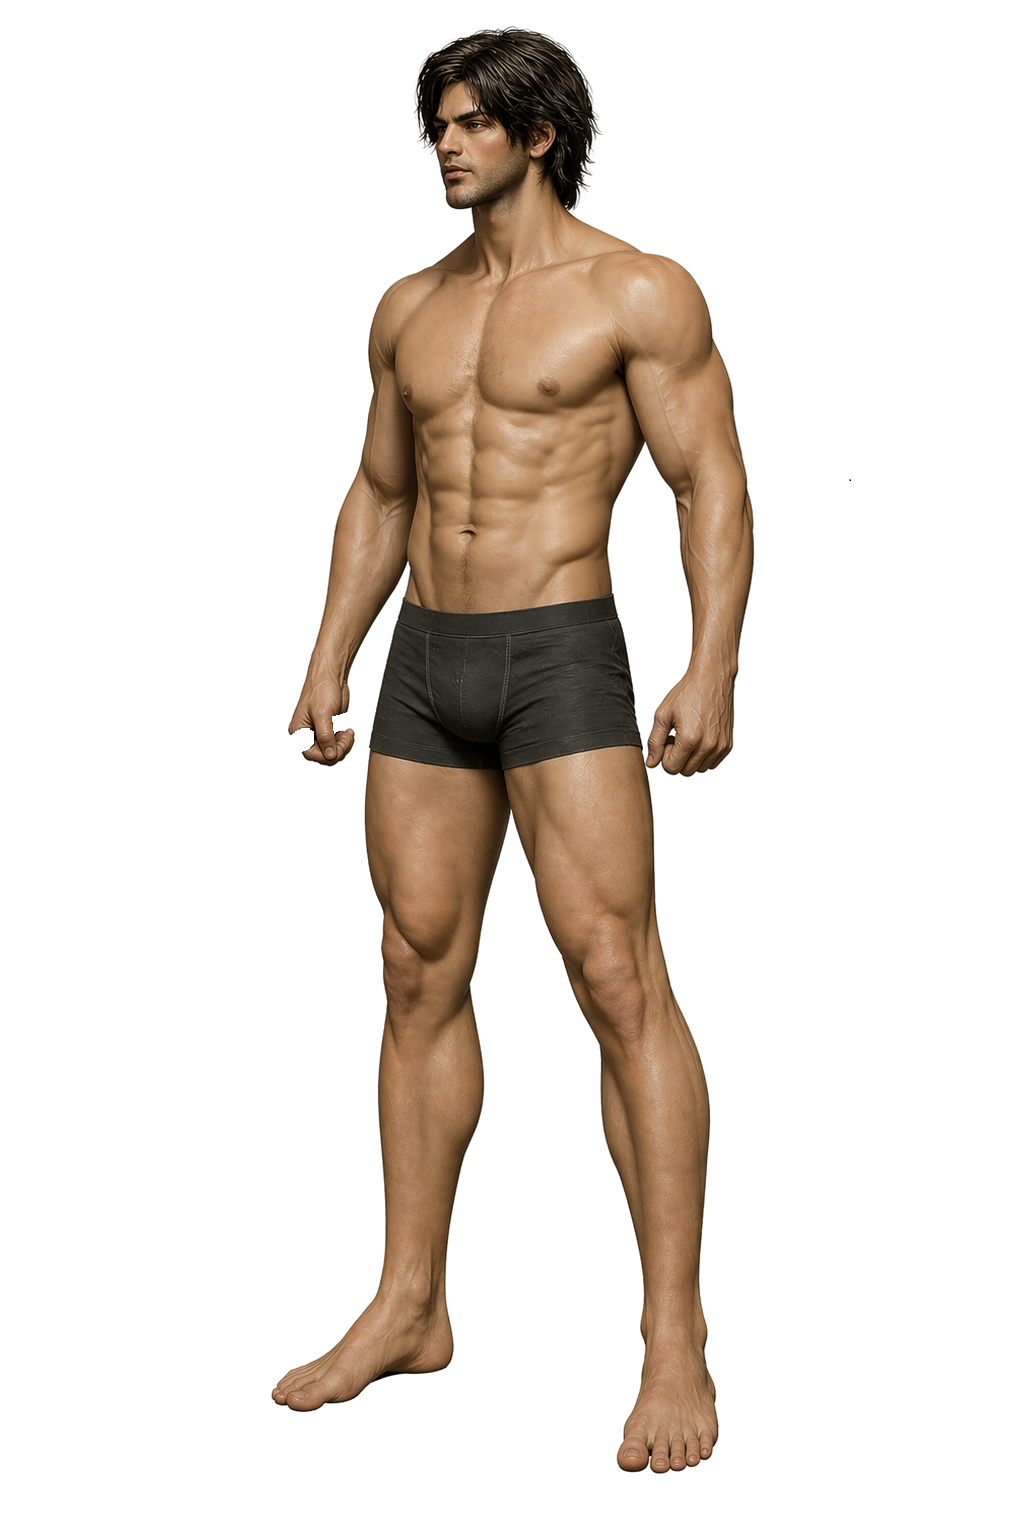
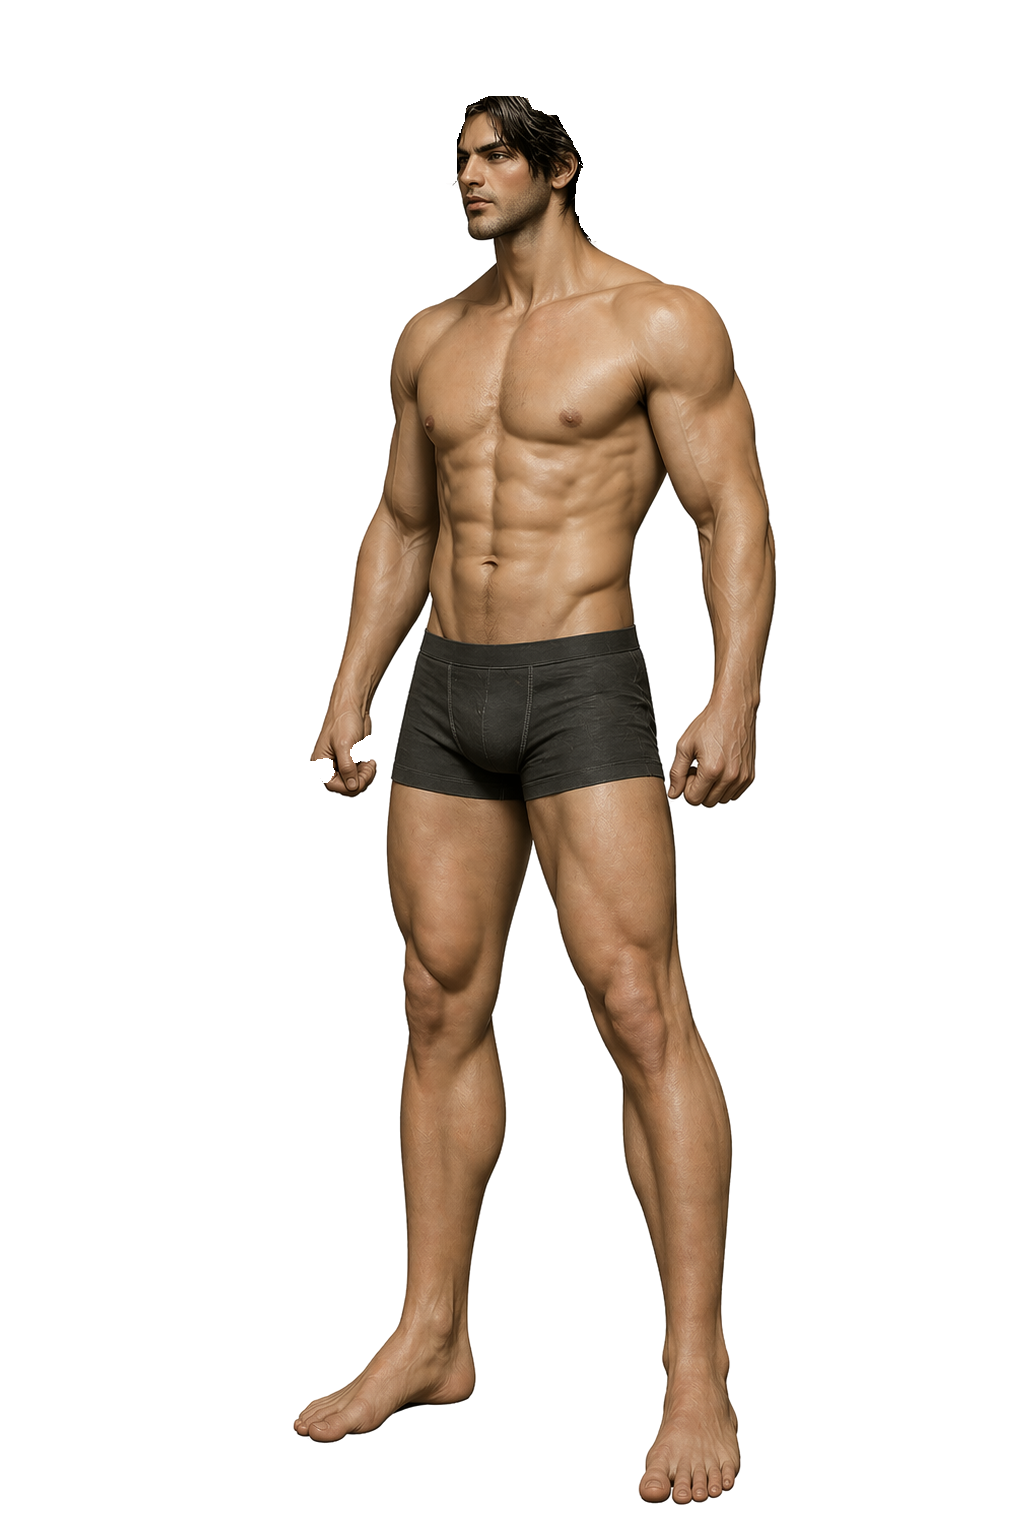
Fixed armor positions.

Changed region(s): [[0.25, 0.0, 0.7812, 1.0]]

diff --git a/game.js b/game.js
@@ -316,10 +316,10 @@ function syncPlayerClassSkillList(p) {
 
 function getDefaultPortraitBaseLayout() {
   return {
-    offsetXPct: 1.15667,
-    offsetYPct: -1.73501,
+    offsetXPct: -2.3133535258263334,
+    offsetYPct: -4.048706185434167,
     rotDeg: 0,
-    scalePct: 130
+    scalePct: 118
   };
 }
 
@@ -792,10 +792,15 @@ function getEquipmentOverlayImage(itemName) {
 }
 
 const NO_WEAPON_OVERLAY_PATH = "Assets/Equips/no_weapon.png";
+const NO_HELM_OVERLAY_PATH = "Assets/Equips/no_helm.png";
 const OFFHAND_FIXED_ARM_OVERLAY_PATH = "Assets/Equips/offhand_fixed_arm.png";
 
 function getNoWeaponOverlayImage() {
   return NO_WEAPON_OVERLAY_PATH;
+}
+
+function getNoHelmOverlayImage() {
+  return NO_HELM_OVERLAY_PATH;
 }
 
 function getOffhandFixedArmOverlayImage() {
@@ -804,46 +809,58 @@ function getOffhandFixedArmOverlayImage() {
 
 const DEFAULT_PORTRAIT_LAYOUT = {
   weapon: {
-    offsetXPct: -112.62901028873951,
-    offsetYPct: -47.4236102887395,
+    offsetXPct: -106.26729560795518,
+    offsetYPct: -43.375242659607835,
     rotDeg: 3,
     scalePct: 172
   },
   chest: {
-    offsetXPct: -2.8916832370868333,
-    offsetYPct: -1.15667,
+    offsetXPct: 0.578341,
+    offsetYPct: 0.578343,
     rotDeg: 0,
     scalePct: 190
   },
   feet: {
-    offsetXPct: -4.04832,
-    offsetYPct: -85.59388381456584,
+    offsetXPct: 0.5783741033053333,
+    offsetYPct: -79.2321950465526,
     rotDeg: 0,
     scalePct: 250
   },
+  head: {
+    offsetXPct: 0.578342,
+    offsetYPct: 63.0388,
+    rotDeg: 0,
+    scalePct: 244
+  },
   legs: {
-    offsetXPct: -2.89173,
-    offsetYPct: -54.36357352582633,
+    offsetXPct: -0.000042762913166738414,
+    offsetYPct: -49.7369,
     rotDeg: 0,
     scalePct: 220
   },
   offhand: {
-    offsetXPct: 101.209,
-    offsetYPct: -53.207,
+    offsetXPct: 102.9440102887395,
+    offsetYPct: -49.73697911630142,
     rotDeg: 34,
     scalePct: 160
   },
   offhand_fixed_arm: {
-    offsetXPct: -132.439102887395,
-    offsetYPct: -127.81169410330534,
+    offsetXPct: -121.45096913378151,
+    offsetYPct: -115.66730589669466,
     rotDeg: 0,
-    scalePct: 64
+    scalePct: 70
   },
   no_weapon: {
-    offsetXPct: -111.03675583574235,
-    offsetYPct: -73.59188958935583,
+    offsetXPct: -106.98864265960783,
+    offsetYPct: -66.651858845042,
     rotDeg: 9,
     scalePct: 20
+  },
+  no_helm: {
+    offsetXPct: 2.89168,
+    offsetYPct: -32.9652,
+    rotDeg: 0,
+    scalePct: 40
   }
 };
 
@@ -1053,6 +1070,14 @@ function buildPortraitLayeredStackHtml(baseRaw, rootLayout, rootDataAttr) {
         itemName = "No weapon";
         layoutKey = "no_weapon";
         src = getNoWeaponOverlayImage();
+      }
+    } else if (slotId === "head") {
+      if (itemName) {
+        src = getEquipmentOverlayImage(itemName);
+      } else {
+        itemName = "No helm";
+        layoutKey = "no_helm";
+        src = getNoHelmOverlayImage();
       }
     } else {
       if (!itemName) return;

diff --git a/config.js b/config.js
@@ -1048,6 +1048,15 @@ const GAME_CONFIG = {
       bonusSkills: [],
       bonusStats: {}
     },
+    "Fantastic Helm": {
+      type: "armor",
+      slot: "head",
+      defense: 4,
+      image: "Assets/Equips/fantastic_helm.png",
+      description: "A splendid helm infused with mythic protection.",
+      bonusSkills: [],
+      bonusStats: {}
+    },
     "Wooden Shield": {
       type: "armor",
       slot: "offhand",

diff --git a/styles.css b/styles.css
@@ -895,6 +895,7 @@ body.edit-mode-on .portrait-stack--editing-scale {
   height: 40%;
   left: 30%;
   top: 4%;
+  z-index: 3;
 }
 
 .portrait-equip-layer--amulet {
